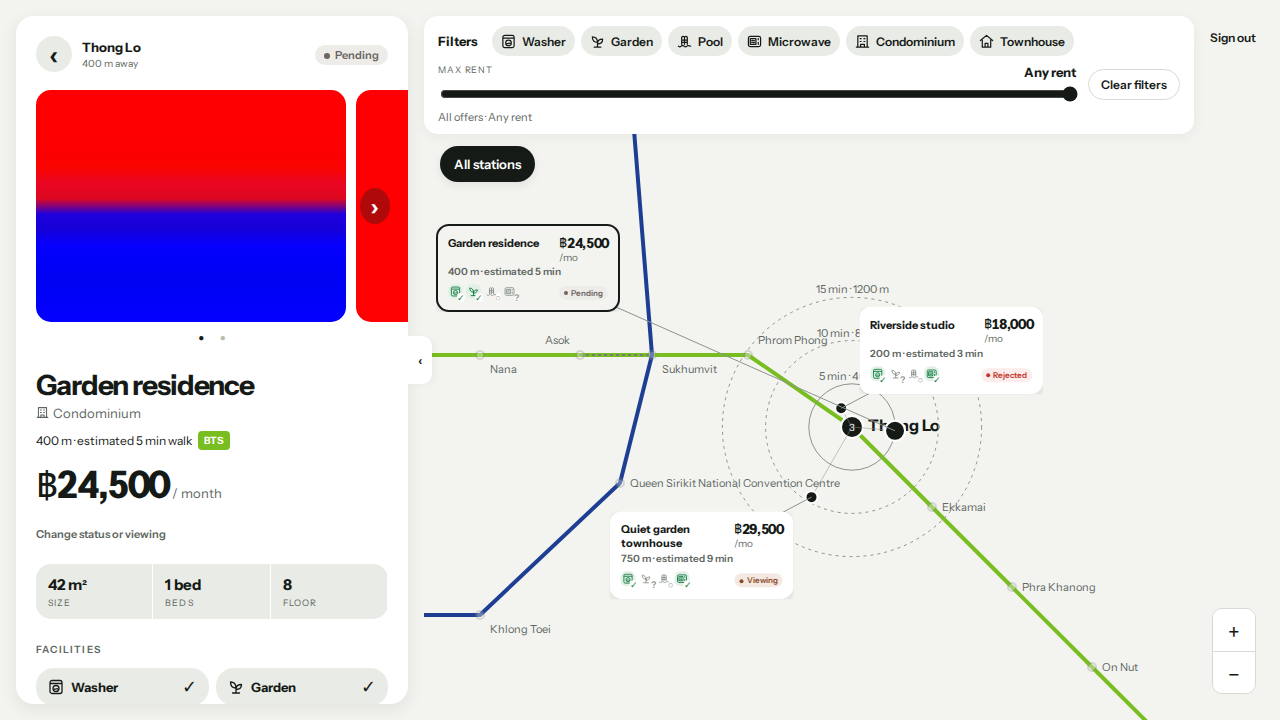
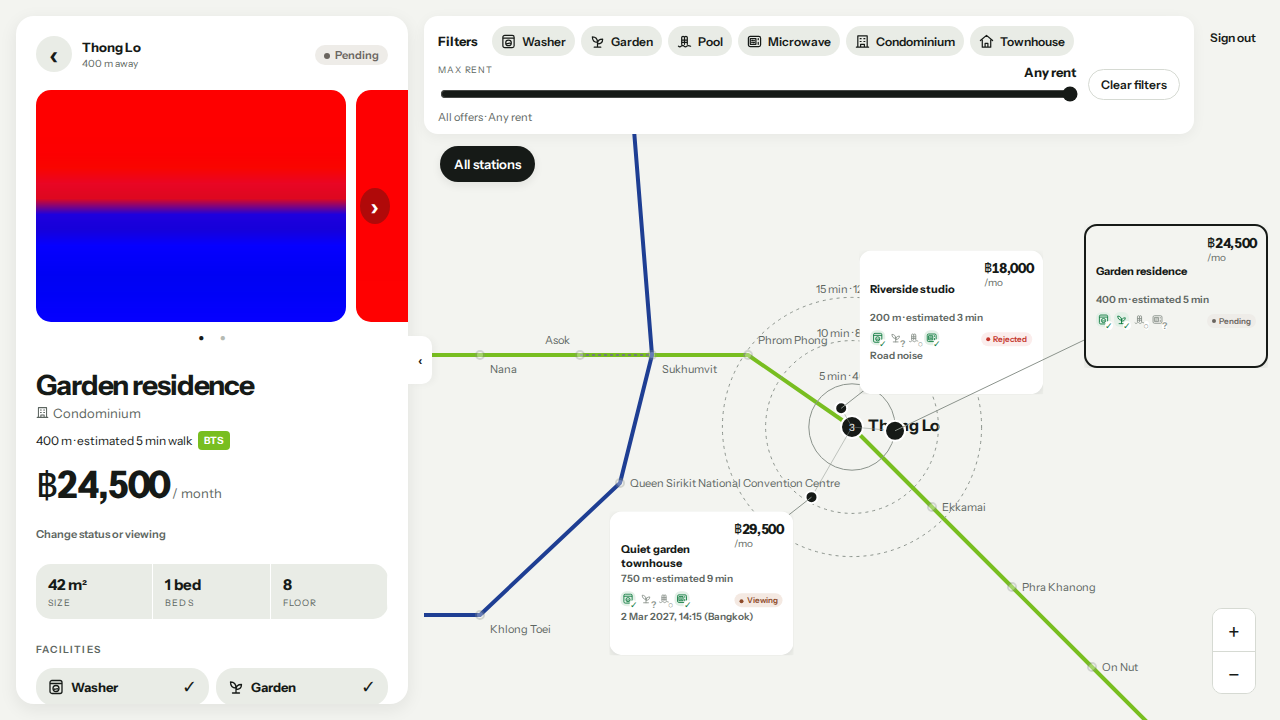
Record resolved reviews and final release candidate evidence (#17)

diff --git a/docs/release.md b/docs/release.md
@@ -31,7 +31,9 @@ Feature slices #1–#16 are integrated. [CI run 39314510146](https://github.com/
 
 The dedicated hosted photo-cleanup secret has been configured in Edge and Vault using trusted operator tooling, with an owner-only private local copy. Hosted feature migrations and final frontend publication remain pending the final release. No secret values are stored in this repository.
 
-Final visual alignment, independent Standards/Spec review and final hosted release verification are still in progress. The final combined UI will receive a new exact-commit CI run; this passing feature baseline does not establish final release completion.
+Final visual alignment and [independent Standards/Spec review](release/review.md) are complete. All four review findings were corrected and independently verified. The final corrected candidate passed all 44 backend/domain tests and all 52 browser journeys, with check/build passing. Desktop and phone evidence is in [release screenshots](release/screenshots/README.md).
+
+Final hosted release verification remains pending. The controlled workflow reruns exact-commit fresh-database CI before deployment; local or earlier CI results alone do not establish hosted completion.
 
 The final record will identify the tested integration commit, full check counts, fresh migration run, desktop/phone captures, review disposition, exact deployment run and hosted cleanup proof. Physical iPhone/Safari testing is not available; HEIC processing has passed Chromium, Firefox and Playwright WebKit engine checks as documented separately.
 

diff --git a/docs/release/review.md b/docs/release/review.md
@@ -18,4 +18,8 @@ No additional scope creep or authorization/privacy defect identified in the revi
 
 ## Disposition
 
-All four findings are being corrected in one implementation branch, with behavior regressions at the agreed public seams. Verification and reviewer confirmation remain pending. The original reviewed snapshot independently passed [full fresh-database CI](https://github.com/chini-lucky/condos/actions/runs/39316921376); a new exact-commit run is required after corrections.
+All four findings were corrected in one implementation branch and integrated in `02e536b`. Both original reviewers independently verified candidate `46616a1b1e2ae1cc8d53a7b3ca374e3df673fafe` and closed their findings with no new actionable issue in the changed areas.
+
+The corrected candidate passed all 44 backend/domain tests, all 52 browser journeys, type/lint/format checks and production build. The merger independently passed three domain tests and all seven focused review regressions after integration. Regressions use actual failed signed-photo requests, keyboard navigation, two-client Trash/permanent deletion, real clipboard copies, disabled persistence and persisted status context with visible callout bounds.
+
+The original reviewed snapshot independently passed [full fresh-database CI](https://github.com/chini-lucky/condos/actions/runs/39316921376). The controlled release reruns exact-commit fresh-database CI before backend deployment and frontend publication.
